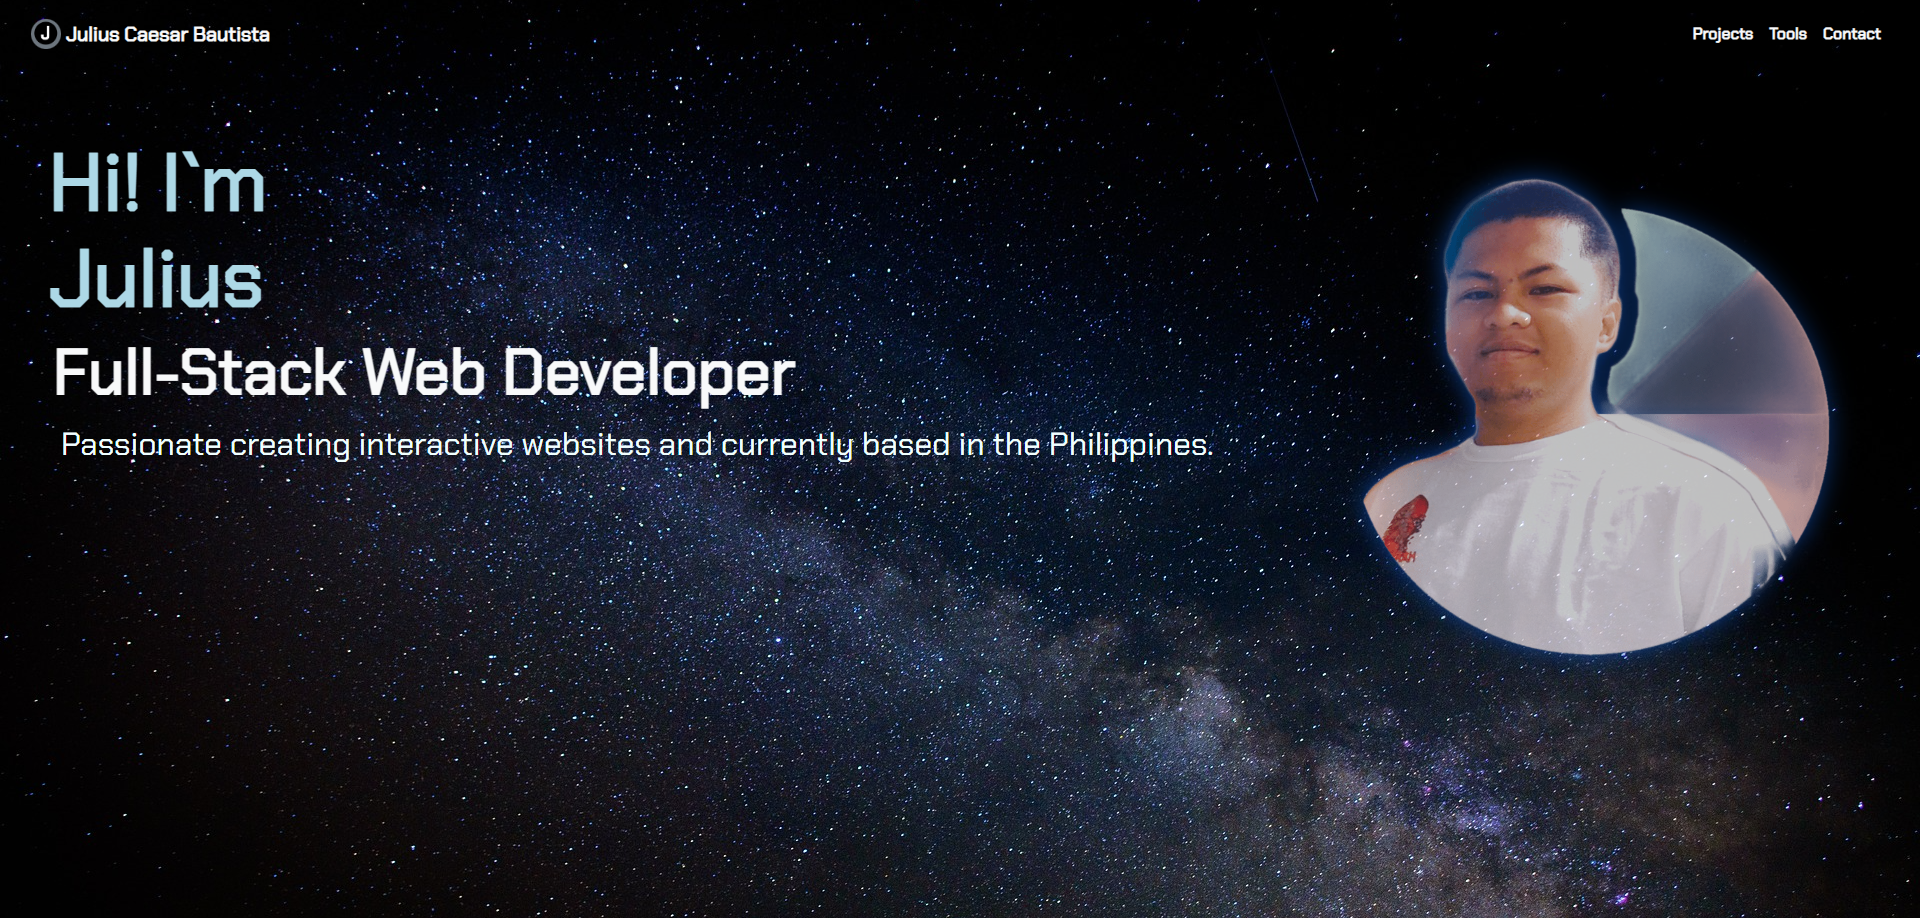
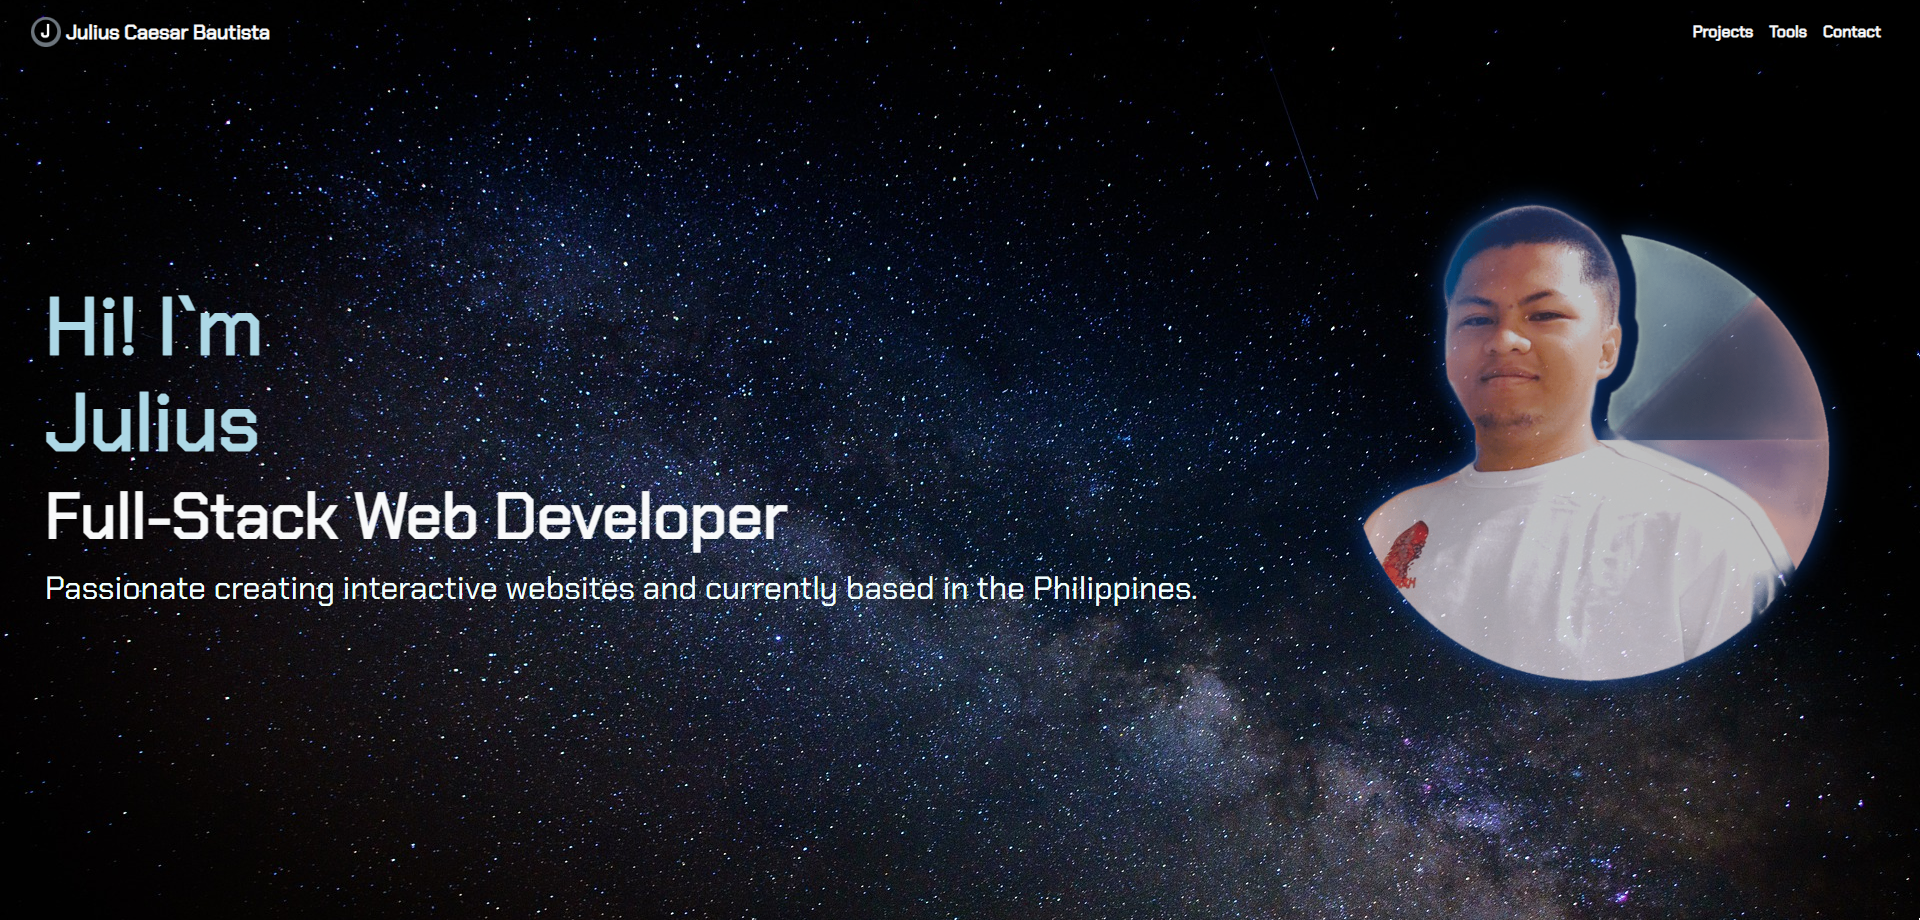
add hover effect

diff --git a/index.css b/index.css
@@ -37,7 +37,7 @@ nav {
 #good3 {
 	height: 500px;
 	width: 600px;
-	margin-top: 10vh;
+	margin-top: 13vh;
 	position: relative;
 	opacity: 0.75;
 	animation-name:  good3;
@@ -54,7 +54,7 @@ nav {
 #good3:hover {
 	height: 500px;
 	width: 600px;
-	margin-top: 10vh;
+	margin-top: 13vh;
 	position: relative;
 	transform: translateY(-10px);
 	filter: drop-shadow(0 0 0.75rem rgb(167, 199, 231));
@@ -86,6 +86,22 @@ nav {
   background: rgb(70, 130, 180);
   border-radius: 100px;
   white-space: nowrap;
+}
+.totop:hover {
+  --offset: 50px;
+  position: sticky;
+  bottom: 20px;      
+  margin-right:10px; 
+  place-self: end;
+  margin-top: calc(100vh + var(--offset));
+  text-decoration: none;
+  padding: 10px;
+  font-family: sans-serif;
+  color: #F0FFFF;
+  background: rgb(70, 130, 180);
+  border-radius: 100px;
+  white-space: nowrap;
+  filter: drop-shadow(0 0 0.75rem rgb(167, 199, 231));
 }
 
 #hi {
@@ -122,68 +138,121 @@ nav {
 	background-color: #008080;
 	color: #F0FFFF;
 	width: 30rem;
+	border-radius: 10px;
 }
+#prflio:hover {
+	background-color: #008080;
+	color: #F0FFFF;
+	width: 30rem;
+	border-radius: 10px;
+	filter: drop-shadow(0 0 0.75rem rgb(167, 199, 231));
+}
+
 #gitbash {
 	background-color: #008080;
 	color: #F0FFFF;
 	margin-bottom: 2rem;
+	border-radius: 30px;
 }
 #ST {
 	background-color: #008080;
 	color: #F0FFFF;
 	margin-bottom: 2rem;
+	border-radius: 30px;
 }
 #Html {
 	background-color: #008080;
 	color: #F0FFFF;
 	margin-bottom: 2rem;
+	border-radius: 30px;
 }
 #css {
 	background-color: #008080;
 	color: #F0FFFF;
 	margin-bottom: 2rem;
+	border-radius: 30px;
 }
 #bsrap {
 	background-color: #008080;
 	color: #F0FFFF;
+	border-radius: 30px;
 	
 }
 #fb {
 	background-color: white;
-	border-radius: 50%;
+	border-radius: 30%;
 	height: 100px;
 	width: 100px;
 	margin-top: 2rem;
-	
+}
+#fb:hover {
+	background-color: white;
+	border-radius: 30%;
+	height: 100px;
+	width: 100px;
+	margin-top: 2rem;
+	filter: drop-shadow(0 0 0.75rem rgb(167, 199, 231));
 }
 #rowb {
 	margin-bottom: 15vh;
 }
 #em {
 	background-color: white;
-	border-radius: 50%;
+	border-radius: 30%;
 	height: 100px;
 	width: 100px;
 	margin-top: 2rem;
+}
+#em:hover {
+	background-color: white;
+	border-radius: 30%;
+	height: 100px;
+	width: 100px;
+	margin-top: 2rem;
+	filter: drop-shadow(0 0 0.75rem rgb(167, 199, 231));
 }
 #dc {
 	background-color: white;
 	height: 100px;
 	width: 100px;
-	border-radius: 50%;
+	border-radius: 30%;
 	margin-top: 2rem;
+}
+#dc:hover {
+	background-color: white;
+	height: 100px;
+	width: 100px;
+	border-radius: 30%;
+	margin-top: 2rem;
+	filter: drop-shadow(0 0 0.75rem rgb(167, 199, 231));
 }
 #gh {
 	background-color: white;
 	height: 100px;
 	width: 100px;
-	border-radius: 50%;
+	border-radius: 30%;
 	margin-top: 2rem;
+}
+#gh:hover {
+	background-color: white;
+	height: 100px;
+	width: 100px;
+	border-radius: 30%;
+	margin-top: 2rem;
+	filter: drop-shadow(0 0 0.75rem rgb(167, 199, 231));
 }
 #li {
 	background-color: white;
 	height: 100px;
 	width: 100px;
-	border-radius: 50%;
+	border-radius: 30%;
 	margin-top: 2rem;
+}
+#li:hover {
+	background-color: white;
+	height: 100px;
+	width: 100px;
+	border-radius: 30%;
+	margin-top: 2rem;
+	filter: drop-shadow(0 0 0.75rem rgb(167, 199, 231));
 }

diff --git a/index.html b/index.html
@@ -48,13 +48,13 @@
 		<!-- NavBar End -->
 		<!-- Main Content start -->
 		<div class="container-fluid min-vh-100">
-			<div class="row d-sm-block d-md-inline" id="good3parent">
+			<div class="d-flex row d-sm-block d-md-inline" id="good3parent">
 				<img class="img-fluid col-sm-8 col-md-6 col-xl-4 float-right" src="./images/good3.png" id="good3">
 			</div>
-			<div class="row d-sm-block d-md-inline" id="intro">
-				<h2 class="font-weight-bolder ml-1 col-sm-6 col-md-4 col-xl-2" id="hi">Hi! I`m Julius</h2>
-				<h3 class="font-weight-bold ml-2 col-sm-4 col-md-6 col-xl-8 text-light" id="fswd">Full-Stack Web Developer</h3>
-				<p class="lead ml-3 col-sm-4 col-md-6 col-xl-8" id="psn">Passionate creating interactive websites and currently based in the Philippines.</p>
+			<div class="d-flex row d-sm-block d-md-inline" id="intro">
+				<h2 class="font-weight-bolder col-sm-6 col-md-4 col-xl-2" id="hi">Hi! I`m Julius</h2>
+				<h3 class="font-weight-bold col-sm-4 col-md-6 col-xl-8 text-light" id="fswd">Full-Stack Web Developer</h3>
+				<p class="lead col-sm-4 col-md-6 col-xl-8" id="psn">Passionate creating interactive websites and currently based in the Philippines.</p>
 			</div>
 		</div>
 		<!-- Main Content end -->
@@ -62,9 +62,9 @@
 			<h1 id="sH1">Projects</h1>
 			  	<div class="row min-vh-100">
 			  		<div class="row mx-auto">
-			  			<div class="col-sm-5 col-lg-4">
+			  			<div class="col-sm-8 col-lg-4">
 					  		<div class="card p-2" id="prflio">
-					  			<img class="img-fluid card-img-top" src="./images/portfolio.png">
+					  			<img class="img-fluid card-img-top rounded" src="./images/portfolio.png">
 					  			<div class="card-body">
 					  				<h2 class="card-title">My Web Developer Portfolio</h2>
 					  				<p class="card-text">Web Developer Portfolio, also known as website showcasing for your best work, personality and talents</p>
@@ -75,7 +75,7 @@
 		 		</div>
 		 </div>		  		
 		 	<h1 id="sH2">Tools</h1>
-		  		<div class="row mx-auto text-center justify-content-center min-vh-100">
+		  		<div class="row mx-auto text-center justify-content-center min-vh-100 pt-5">
 		  			<div class="col-sm-8 col-lg-2">
 				  		<div class="card" id="gitbash">
 				  			<img class="img-fluid card-img-top" src="./images/logogitbash.png">
